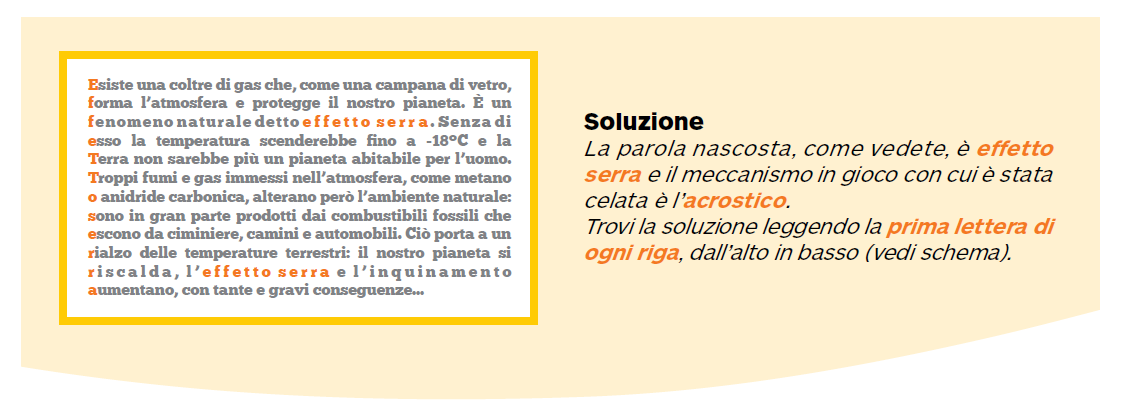
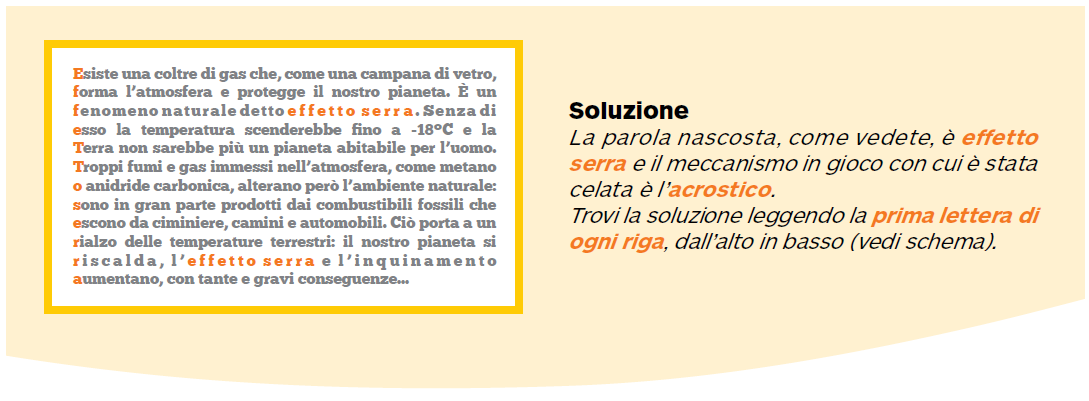
PAnnello 12 e margini 5% anziché 5.5% nell'h1

diff --git a/p12Ipertesto.html b/p12Ipertesto.html
@@ -13,26 +13,28 @@
 	<body>
 		<header>
 			<img src="./img/IntestazioneIpertestoGiallo.png" alt="Intestazione" class="Intestazione">
-			<h1 class="Colore Titolo2 Center"> Combustibili fossili </h1><br>
+			<h1 class="Colore TitoloIpertesto"> Combustibili fossili </h1>
 		</header>
 		<main>
+			<section>
+				<img src="./img/i20CombustibiliFossili.png" alt="Befane" class="Center ImgStandard">
+				<br/>
+			</section>
 			<section class="row">
 				<article class="col">
 					Oltre all&apos;aumento dei gas serra, l&apos;uso dei combustibili fossili provoca altre negative conseguenze per l&apos;ambiente, tra cui, ad esempio, lo <bdi class="Bold">smog</bdi>. Lo smog si presenta come una miscela di fumo e di nebbia (dalla contrazione delle parole inglesi <bdi class="Italic">smoke</bdi> e <bdi class="Italic">fog</bdi>) ed &egrave; costituito da sostanze che si formano in seguito a complesse reazioni chimiche,  provocate dall&apos;interazione tra la luce solare e i fumi della combustione di carbone e derivati dal petrolio. Tende a formarsi nelle aree urbane, dove l&apos;aria &egrave; stagnante e non riesce a disperdersi naturalmente, provoca irritazioni agli occhi e alle vie respiratorie ed &egrave; cancerogeno;  mescolandosi con il vapore acqueo, penetra nelle nuvole e causa le piogge acide. Non risparmia le piante e gli ecosistemi acquatici e per la sua acidit&agrave; corrode lentamente edifici e monumenti. <br>
-					La storia ricorda alcuni gravi episodi causati da questo fenomeno, tra questi il <bdi class="Bold">Grande smog</bdi>, una catastrofe ambientale che colp? Londra nel dicembre 1952. A causa del freddo i londinesi aumentarono la potenza degli impianti di riscaldamento e cominciarono a consumare pi? carbone: i fumi di combustione furono intrappolati da una inversione termica formata da una densa massa di aria fredda.
+					La storia ricorda alcuni gravi episodi causati da questo fenomeno, tra questi il <bdi class="Bold">Grande smog</bdi>, una catastrofe ambientale che colp&igrave; Londra nel dicembre 1952. A causa del freddo i londinesi aumentarono la potenza degli impianti di riscaldamento e cominciarono a consumare pi&ugrave; carbone: i fumi di combustione furono intrappolati da una inversione termica formata da una densa massa di aria fredda.
 				</article>
 				<article class="col">
 					Il problema si aggrav&ograve; per l&apos;uso di carbone con alto contenuto di zolfo, consumato internamente per consentire l&apos;esportazione del carbone di alta qualit&agrave; e far fronte alla critica situazione economica della Gran Bretagna dopo la seconda guerra mondiale. <br>
-					Una nebbia densa e maleodorante avvolse la citt&agrave; per cinque giorni, causando la morte di 12.000 persone e 100.000 casi di malattie. Era talmente spessa che le persone camminavano addossate ai muri e furono chiuse le scuole per evitare che i bambini si perdessero nella nube tossica. Penetr&ograve; anche negli edifici: le rappresentazioni teatrali e le proiezioni cinematografiche furono sospese perch&egrave; le scene e gli schermi non erano visibili al pubblico. <br>
-					Tale evento sconvolse il mondo e determin&ograve; la nascita della coscienza ambientale moderna: nel 1956 venne approvato in Gran Bretagna il <bdi class="Bold">Clean Air Act</bdi>, la prima grande legge ambientale promulgata sul nostro pianeta. Da allora la situazione &egrave; molto cambiata. Ma non dappertutto: in alcuni paesi, come la Cina, che ospita  ben 16 delle 20 citt&agrave; pi? inquinate del mondo, si verificano ancora oggi episodi di inquinamento atmosferico con caratteristiche simili a quelle del Grande Smog.
+					Una nebbia densa e maleodorante avvolse la citt&agrave; per cinque giorni, causando la morte di 12.000 persone e 100.000 casi di malattie. Era talmente spessa che le persone camminavano addossate ai muri e furono chiuse le scuole per evitare che i bambini si perdessero nella nube tossica. Penetr&ograve; anche negli edifici: le rappresentazioni teatrali e le proiezioni cinematografiche furono sospese perch&eacute; le scene e gli schermi non erano visibili al pubblico. <br>
+					Tale evento sconvolse il mondo e determin&ograve; la nascita della coscienza ambientale moderna: nel 1956 venne approvato in Gran Bretagna il <bdi class="Bold">Clean Air Act</bdi>, la prima grande legge ambientale promulgata sul nostro pianeta. Da allora la situazione &egrave; molto cambiata. Ma non dappertutto: in alcuni paesi, come la Cina, che ospita ben 16 delle 20 citt&agrave; pi&ugrave; inquinate del mondo, si verificano ancora oggi episodi di inquinamento atmosferico con caratteristiche simili a quelle del Grande Smog.
 				</article>
 			</section>
-			<section>
-				<img src="./img/i20CombustibiliFossili.png" alt="Es" class="Center ImgStandard">
-			</section>
+			
 			<section class="Center Button">
-	      <a href="p01Soluzione.html">
-					<img src="./img/BottoneEsciBlu.png" alt="uscita" class="Button">
+	      <a href="p12Soluzione.html">
+					<img src="./img/BottoneEsciGiallo.png" alt="uscita" class="Button">
 				</a>
 	    </section>
 		</main>

diff --git a/p12Soluzione.html b/p12Soluzione.html
@@ -14,25 +14,27 @@
 	<body>
 		<header>
 			<img src="./img/p12Intestazione.png" alt="Intestazione" class="Intestazione">
-			<h1 class="Colore Titolo2 Center"> Non gasiamoci troppo </h1><br><br>
+			<h1 class="Colore Titolo2 Left"> Non gasiamoci troppo </h1>
+			<br/>
 	 </header>
 	 <main>
 
 
 
-	<section class="row">
+	<section class="row" style="margin-left:0%; margin-right:0%;">
 			<article class="col">
-				L'<bdi class="Bold">effetto serra</bdi> fa salire le temperature: si sciolgono i ghiacciai e si alza il livello del mare. Tra qualche decennio: Venezia, Londra e New York potrebbero scomparire!
-				I <bdi class="Bold">cambiamenti climatici</bdi> provocano un aumento della siccità e della desertificazione in alcune regioni del mondo e della frequenza di eventi estremi(alluvioni, tempeste, ondate di freddo e di caldo) in altre; inoltre favoriscono la diffusione di epidemie... i combustibili fossili provvedono a oltre l'85% del fabbisongo mondiale
+				L'<bdi class="Bold">effetto serra</bdi> fa salire le temperature: si sciolgono i ghiacciai e si alza il livello del mare. Tra qualche decennio: Venezia, Londra e New York potrebbero scomparire!<br/>
+				I <bdi class="Bold">cambiamenti climatici</bdi> provocano un aumento della siccit&agrave e della desertificazione in alcune regioni del mondo e della frequenza di eventi estremi (alluvioni, tempeste, ondate di freddo e di caldo) in altre; inoltre favoriscono la diffusione di epidemie... <br7>
+				I <a class="Colore Bold" href="p12Ipertesto.html">combustibili fossili</a> provvedono a oltre l'85% del fabbisogno mondiale di energia.
 			</article>
 			<article class="col">
-				di energia e la domanda &egrave in costante aumento; l'equilibrio ambientale &egrave; molto fragile...Una delle strade da percorrere per sostenerlo &egrave dare impulso allo <bdi class="Bold">sviluppo</bdi> delle <bdi class="Bold"> energie rinnovabili</bdi> e a sistemi innovativi di produzione energetica,
-				nonch&egrave favorire intervento, progetti e comportamenti tali da <bdi class="Bold">risparmiare</bdi> e <bdi class="Bold">recuperare energia</bdi>. Questo consentirà di ridurre le emissioni dei gas e degli inquinanti che possono rendere irrespirabile l'atmosfera della nostra... serra.
+				 La domanda &egrave in costante aumento; l'equilibrio ambientale &egrave; molto fragile... Una delle strade da percorrere per sostenerlo &egrave dare impulso allo <bdi class="Bold">sviluppo</bdi> delle <bdi class="Bold"> energie rinnovabili</bdi> e a sistemi innovativi di produzione energetica,
+				nonch&egrave favorire intervento, progetti e comportamenti tali da <bdi class="Bold">risparmiare</bdi> e <bdi class="Bold">recuperare energia</bdi>. Questo consentir&agrave di ridurre le emissioni dei gas e degli inquinanti che possono rendere irrespirabile l'atmosfera della nostra... serra.
 			</article>
 		</section>
 	<center>
-		<img src="./img/p12Rematore.png" alt="Immagine finale" style="width:70%"><br><br>
-		<img src="./img/p12Sol.png" alt="Immagine finale" style="width:70%"><br><br>
+		<img src="./img/p12Rematore.png" alt="Immagine finale" style="width:70%"><br>
+		<img src="./img/p12Sol.png" alt="Immagine finale" class="Center ImgStandard"><br>
 	</center>
 	<section class="Center">
 				<a href="p12Introduzione.html">

diff --git a/p12Introduzione.html b/p12Introduzione.html
@@ -14,15 +14,16 @@
 	<body>
 		<header>
       <img src="./img/p12Intestazione.png" alt="Intestazione" class="Intestazione">
-      <h1 class="Colore Titolo2 Center"> Non gasiamoci troppo </h1>
+      <h1 class="Colore Titolo1 Center"> Non gasiamoci <br/>troppo </h1>
     </header>
 		<main>
       <section>
-        <img src="./img/p12Fronte.png" alt="Cesoie" class="Center ImgStandard">
+        <img src="./img/p12Fronte.png" alt="Cesoie" class="Center ImgStandard" style="margin-bottom:4%">
+		
       </section>
       <section class="row">
         <article class="col">
-					Tutto chiaro, o quasi. Perch&egrave; alle nostre considerazioni ambientali e ai rischi che corre il nostro pianeta
+					Tutto chiaro, o quasi. Perch&eacute; alle nostre considerazioni ambientali e ai rischi che corre il nostro pianeta
 					manca il <bdi class="Bold">soggetto principale</bdi>, quello che per due
 					volte &egrave; stato sostituito con i trattini (due parole di 7 e 5 lettere).
         </article>

diff --git a/css/master.css b/css/master.css
@@ -88,7 +88,7 @@ img.Center {
 
 h1.Left {
   text-align: left;
-  margin-left: 5.5%;
+  margin-left: 5%;
   margin-top: 4%;
   margin-bottom: 2%;
 }
